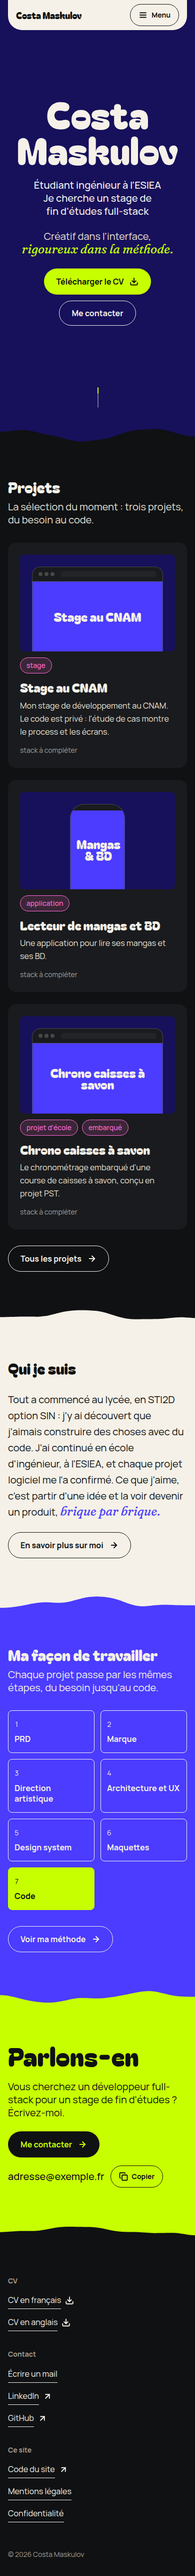
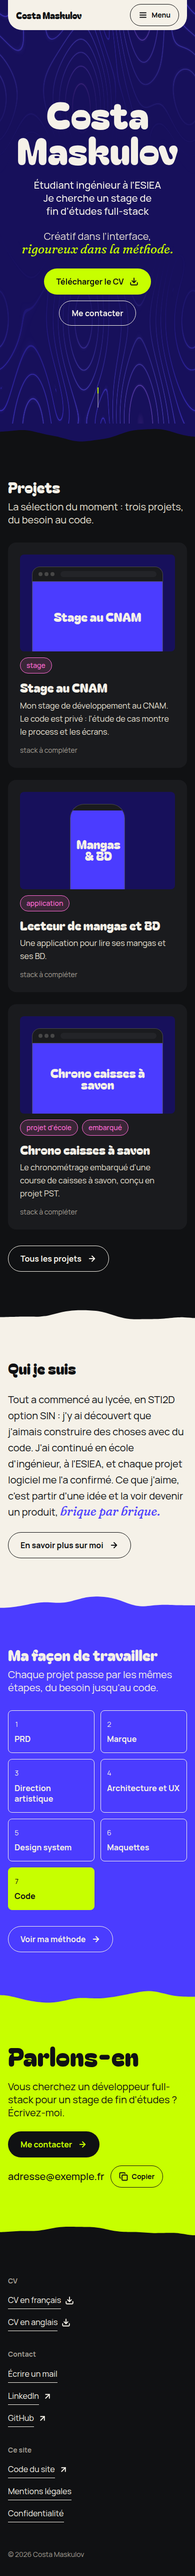
feat(maquettes): fond topographique en violet, teinte retenue
Retire le sélecteur de teintes et les variantes crème et couleurs DA.
Décision notée dans le journal ; captures mises à jour.

diff --git a/docs/06-maquettes/accueil.html b/docs/06-maquettes/accueil.html
@@ -130,13 +130,6 @@ body{font-family:var(--font-body);font-size:var(--text-body);line-height:var(--l
 .topo canvas{display:block;width:100%;height:100%}
 .hero-inner{position:relative;z-index:1}
 .hint{z-index:1}
-/* Contrôle de la maquette (ne fait pas partie du site) */
-.mock{position:fixed;z-index:40;right:var(--space-4);bottom:var(--space-4);display:flex;align-items:center;gap:var(--space-2);padding:var(--space-2);background:var(--neutral-50);color:var(--neutral-950);border:var(--border-strong) solid var(--neutral-950);border-radius:var(--radius-pill);font:var(--weight-bold) var(--text-sm)/var(--leading-none) var(--font-body)}
-.mock>span{padding:0 var(--space-2)}
-.mock button{min-height:var(--target-min);padding:0 var(--space-4);border-radius:var(--radius-pill);border:var(--border-strong) solid var(--neutral-950);background:transparent;color:inherit;font:inherit;cursor:pointer}
-.mock button[aria-pressed="true"]{background:var(--neutral-950);color:var(--neutral-50)}
-.mock button:focus-visible{outline-color:var(--violet-500)}
-@media (max-width:767px){.mock{right:var(--space-2);bottom:var(--space-2);flex-wrap:wrap;border-radius:var(--radius-md)}.mock>span{display:none}.mock button{padding:0 var(--space-3)}}
 
 /* ProjectCard + DeviceFrame */
 .cards{display:grid;grid-template-columns:minmax(0,1fr);gap:var(--space-5)}
@@ -367,15 +360,6 @@ body{font-family:var(--font-body);font-size:var(--text-body);line-height:var(--l
   </div>
 </footer>
 
-<!-- Contrôle de la maquette : compare les couleurs du fond topographique -->
-<div class="mock" role="group" aria-label="Maquette : fond de la section d'accueil">
-  <span>Fond</span>
-  <button type="button" data-topo="off" aria-pressed="false">Aucun</button>
-  <button type="button" data-topo="violet" aria-pressed="true">Violet</button>
-  <button type="button" data-topo="creme" aria-pressed="false">Crème</button>
-  <button type="button" data-topo="da" aria-pressed="false">Couleurs DA</button>
-</div>
-
 <script>
 /* Fond topographique : adaptation du composant « Topography » (ogl) en WebGL 2 natif.
    Pas de suivi du curseur. Lignes estompées derrière le texte. Image fixe en mouvement réduit.
@@ -384,11 +368,8 @@ body{font-family:var(--font-body);font-size:var(--text-body);line-height:var(--l
   var box=document.getElementById('topo');if(!box)return;
   var q=new URLSearchParams(location.search);
   var reduce=q.get('reduce')==='1'||matchMedia('(prefers-reduced-motion: reduce)').matches;
-  var PRESETS={
-    violet:{low:'#4b3cff',mid:'#6f63ff',high:'#ff6bd6',opacity:.55},
-    creme:{low:'#e8e1d4',mid:'#f5f1e8',high:'#f5f1e8',opacity:.22},
-    da:{low:'#4b3cff',mid:'#ff6bd6',high:'#c7ff00',opacity:.5}
-  };
+  // Teinte retenue : violet électrique qui tire vers le rose sur les hauteurs
+  var TOPO={low:'#4b3cff',mid:'#6f63ff',high:'#ff6bd6',opacity:.55};
   var canvas=document.createElement('canvas'),gl=canvas.getContext('webgl2',{alpha:true,premultipliedAlpha:true,antialias:false});
   if(!gl)return; // sans WebGL 2 : simple fond violet
   box.appendChild(canvas);
@@ -418,7 +399,7 @@ body{font-family:var(--font-body);font-size:var(--text-body);line-height:var(--l
 
   var MORPH=3,SPEED=.25,MSPEED=.05,IDX=[[1,-2,3,-4],[9,-8,7,-6],[5,2,5,-5],[-1,-3,8,9]];
   gl.uniform1f(U.uMorphAmount,MORPH);gl.uniform1f(U.uBands,1.4);gl.uniform1f(U.uThickness,.014);gl.uniform1f(U.uGlow,.4);gl.uniform1f(U.uContrast,3);gl.uniform1f(U.uFade,1);
-  function setPreset(name){var p=PRESETS[name];gl.uniform3fv(U.uLow,rgb(p.low));gl.uniform3fv(U.uMid,rgb(p.mid));gl.uniform3fv(U.uHigh,rgb(p.high));gl.uniform1f(U.uOpacity,p.opacity);draw(last)}
+  gl.uniform3fv(U.uLow,rgb(TOPO.low));gl.uniform3fv(U.uMid,rgb(TOPO.mid));gl.uniform3fv(U.uHigh,rgb(TOPO.high));gl.uniform1f(U.uOpacity,TOPO.opacity);
   function size(){var r=box.getBoundingClientRect(),dpr=Math.min(devicePixelRatio||1,1.5);canvas.width=Math.max(1,Math.floor(r.width*dpr));canvas.height=Math.max(1,Math.floor(r.height*dpr));gl.viewport(0,0,canvas.width,canvas.height);gl.uniform2f(U.iResolution,canvas.width,canvas.height);draw(last)}
   var last=12; // instant de référence (secondes) pour l'image fixe
   function draw(time){
@@ -435,13 +416,7 @@ body{font-family:var(--font-body);font-size:var(--text-body);line-height:var(--l
   document.addEventListener('visibilitychange',function(){document.hidden?stop():start()});
   matchMedia('(prefers-reduced-motion: reduce)').addEventListener('change',function(e){reduce=e.matches;reduce?stop():start()});
 
-  var current=q.get('topo')||'violet';
-  var btns=document.querySelectorAll('[data-topo]');
-  function apply(name){current=name;btns.forEach(function(b){b.setAttribute('aria-pressed',String(b.dataset.topo===name))});
-    if(name==='off'){box.classList.remove('on');stop();return}
-    setPreset(name);box.classList.add('on');start()}
-  btns.forEach(function(b){b.addEventListener('click',function(){apply(b.dataset.topo)})});
-  size();apply(current);
+  size();box.classList.add('on');start();
 })();
 </script>
 <script src="https://cdnjs.cloudflare.com/ajax/libs/gsap/3.12.5/gsap.min.js"></script>

diff --git a/docs/decisions.md b/docs/decisions.md
@@ -77,3 +77,4 @@
 | 14/10/2026 | Design system v1.0 validé | Validation du propriétaire ; passage à la phase 6 (maquettes) |
 | 20/10/2026 | Skill Impeccable retiré du projet | Choix du propriétaire après un second essai de son flux de création |
 | 20/10/2026 | Section d'accueil : plus d'étiquette « développeur full-stack » au-dessus du nom ; sous le nom, deux lignes : « Étudiant ingénieur à l'ESIEA », puis « Je cherche un stage de fin d'études full-stack », et la promesse ensuite | Choix du propriétaire en maquette (version B) : la RH comprend tout de suite le statut et le poste visé. Spécification du design system (§ section d'accueil) à mettre à jour |
+| 21/10/2026 | Section d'accueil : fond topographique animé (courbes de niveau en WebGL), teinte violette (violet électrique vers rose), lignes estompées derrière le texte, sans réaction au curseur ; image fixe en mouvement réduit, pause hors écran | Choix du propriétaire en maquette parmi violet, crème et couleurs DA : « la teinte violet me correspond bien ». À ajouter à la DA et au design system |
